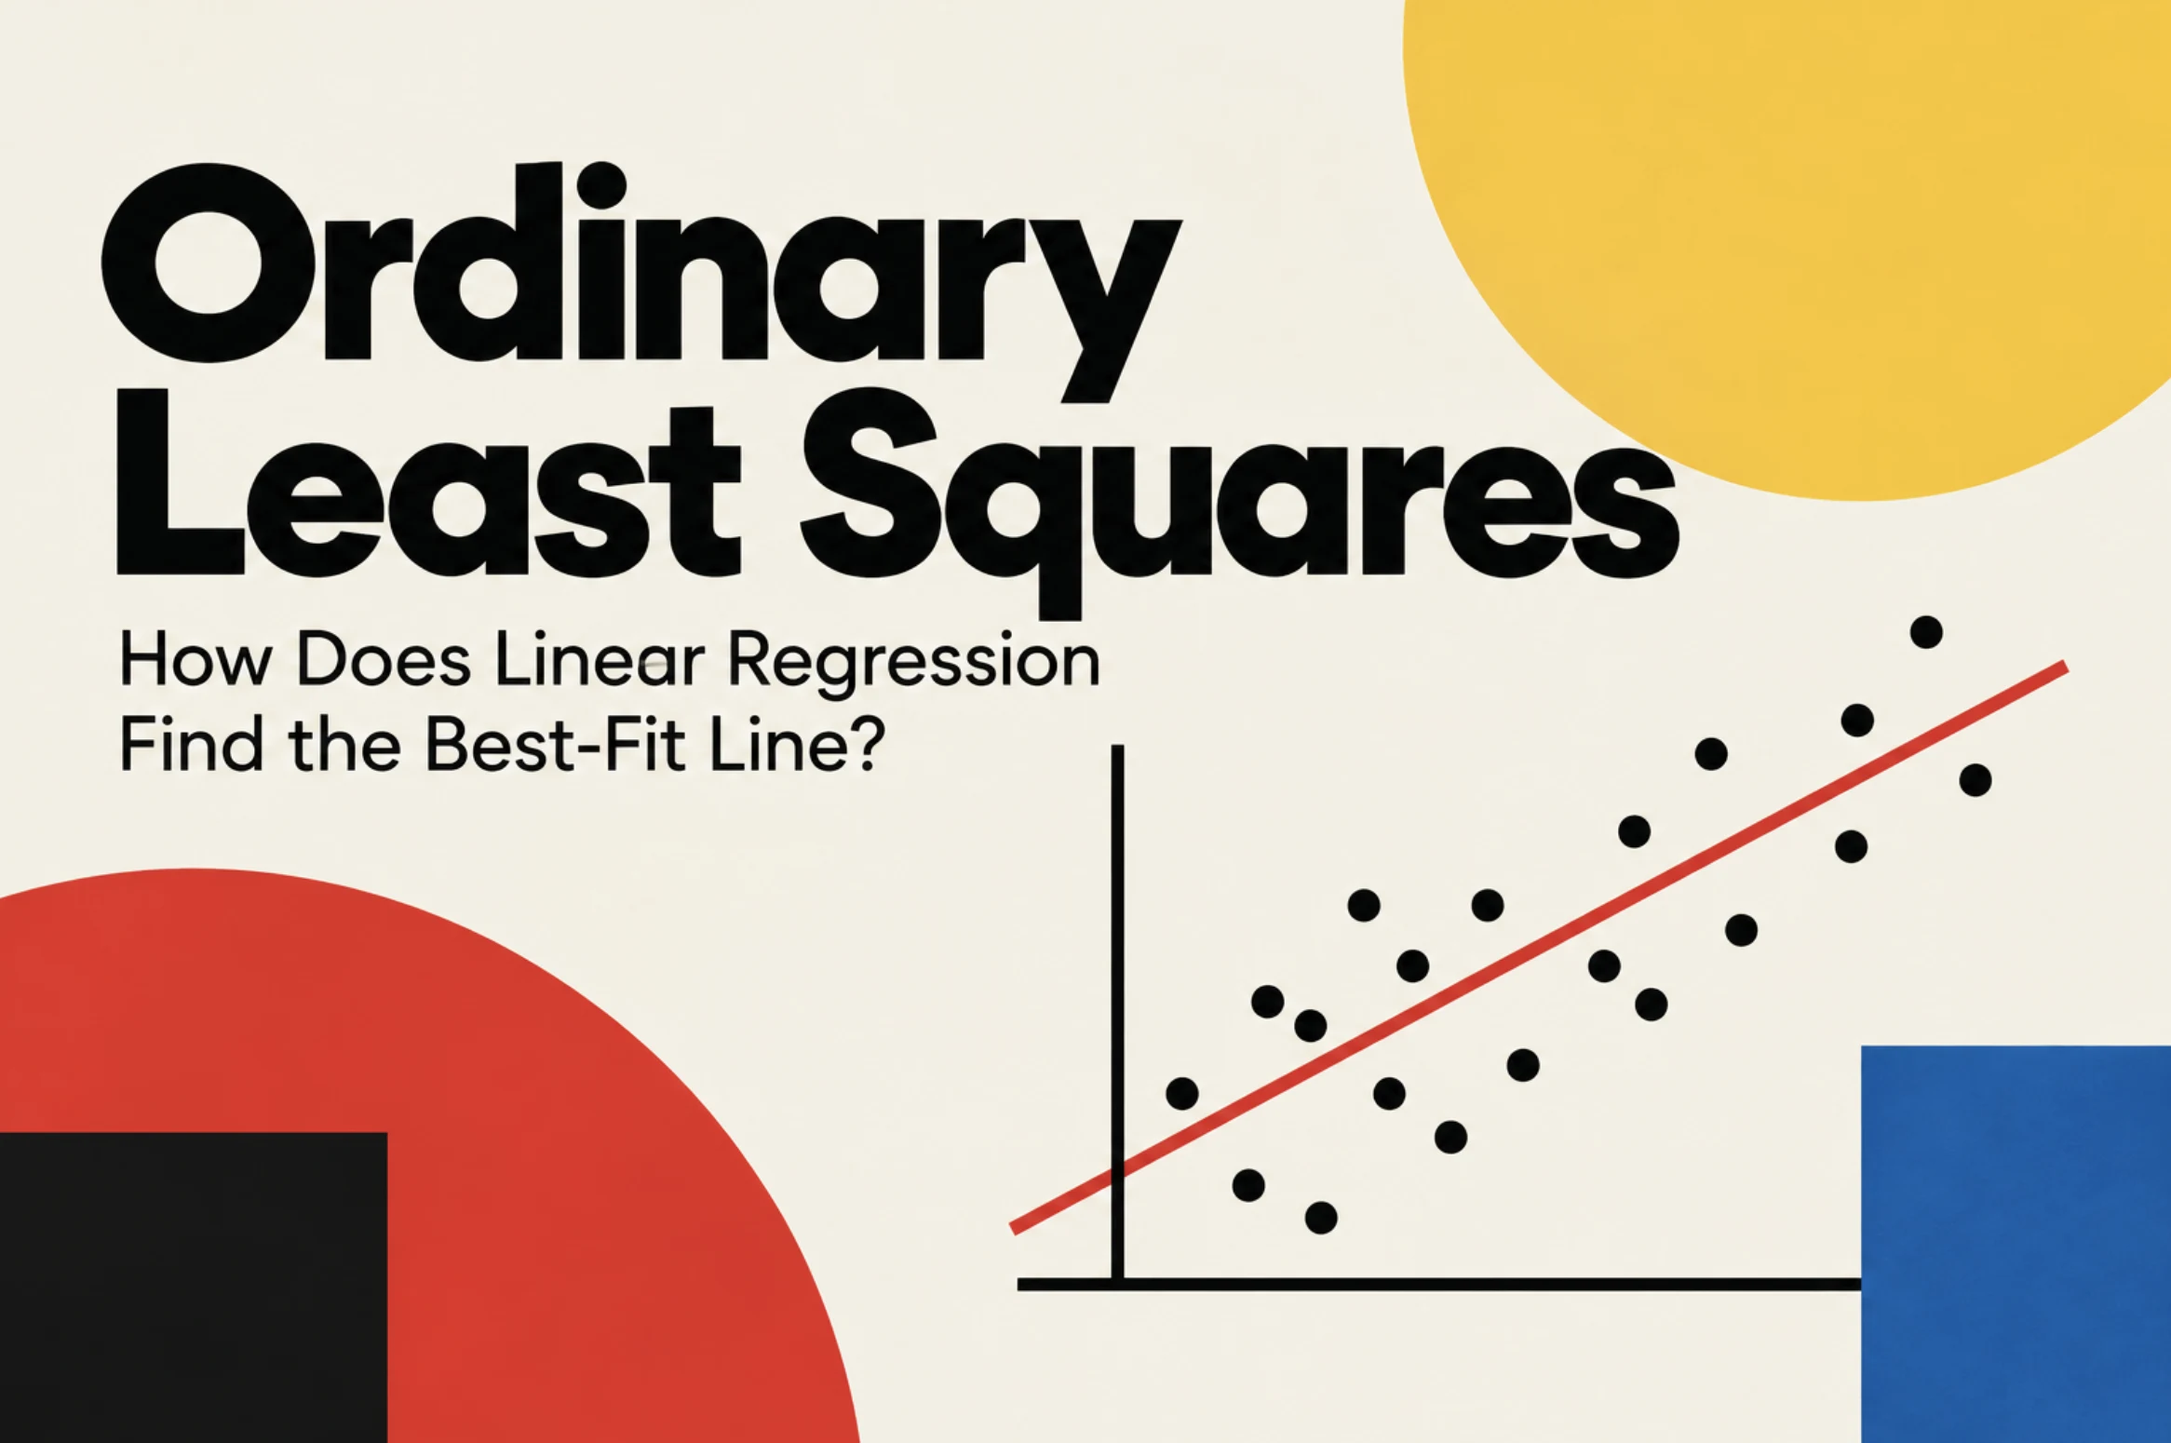
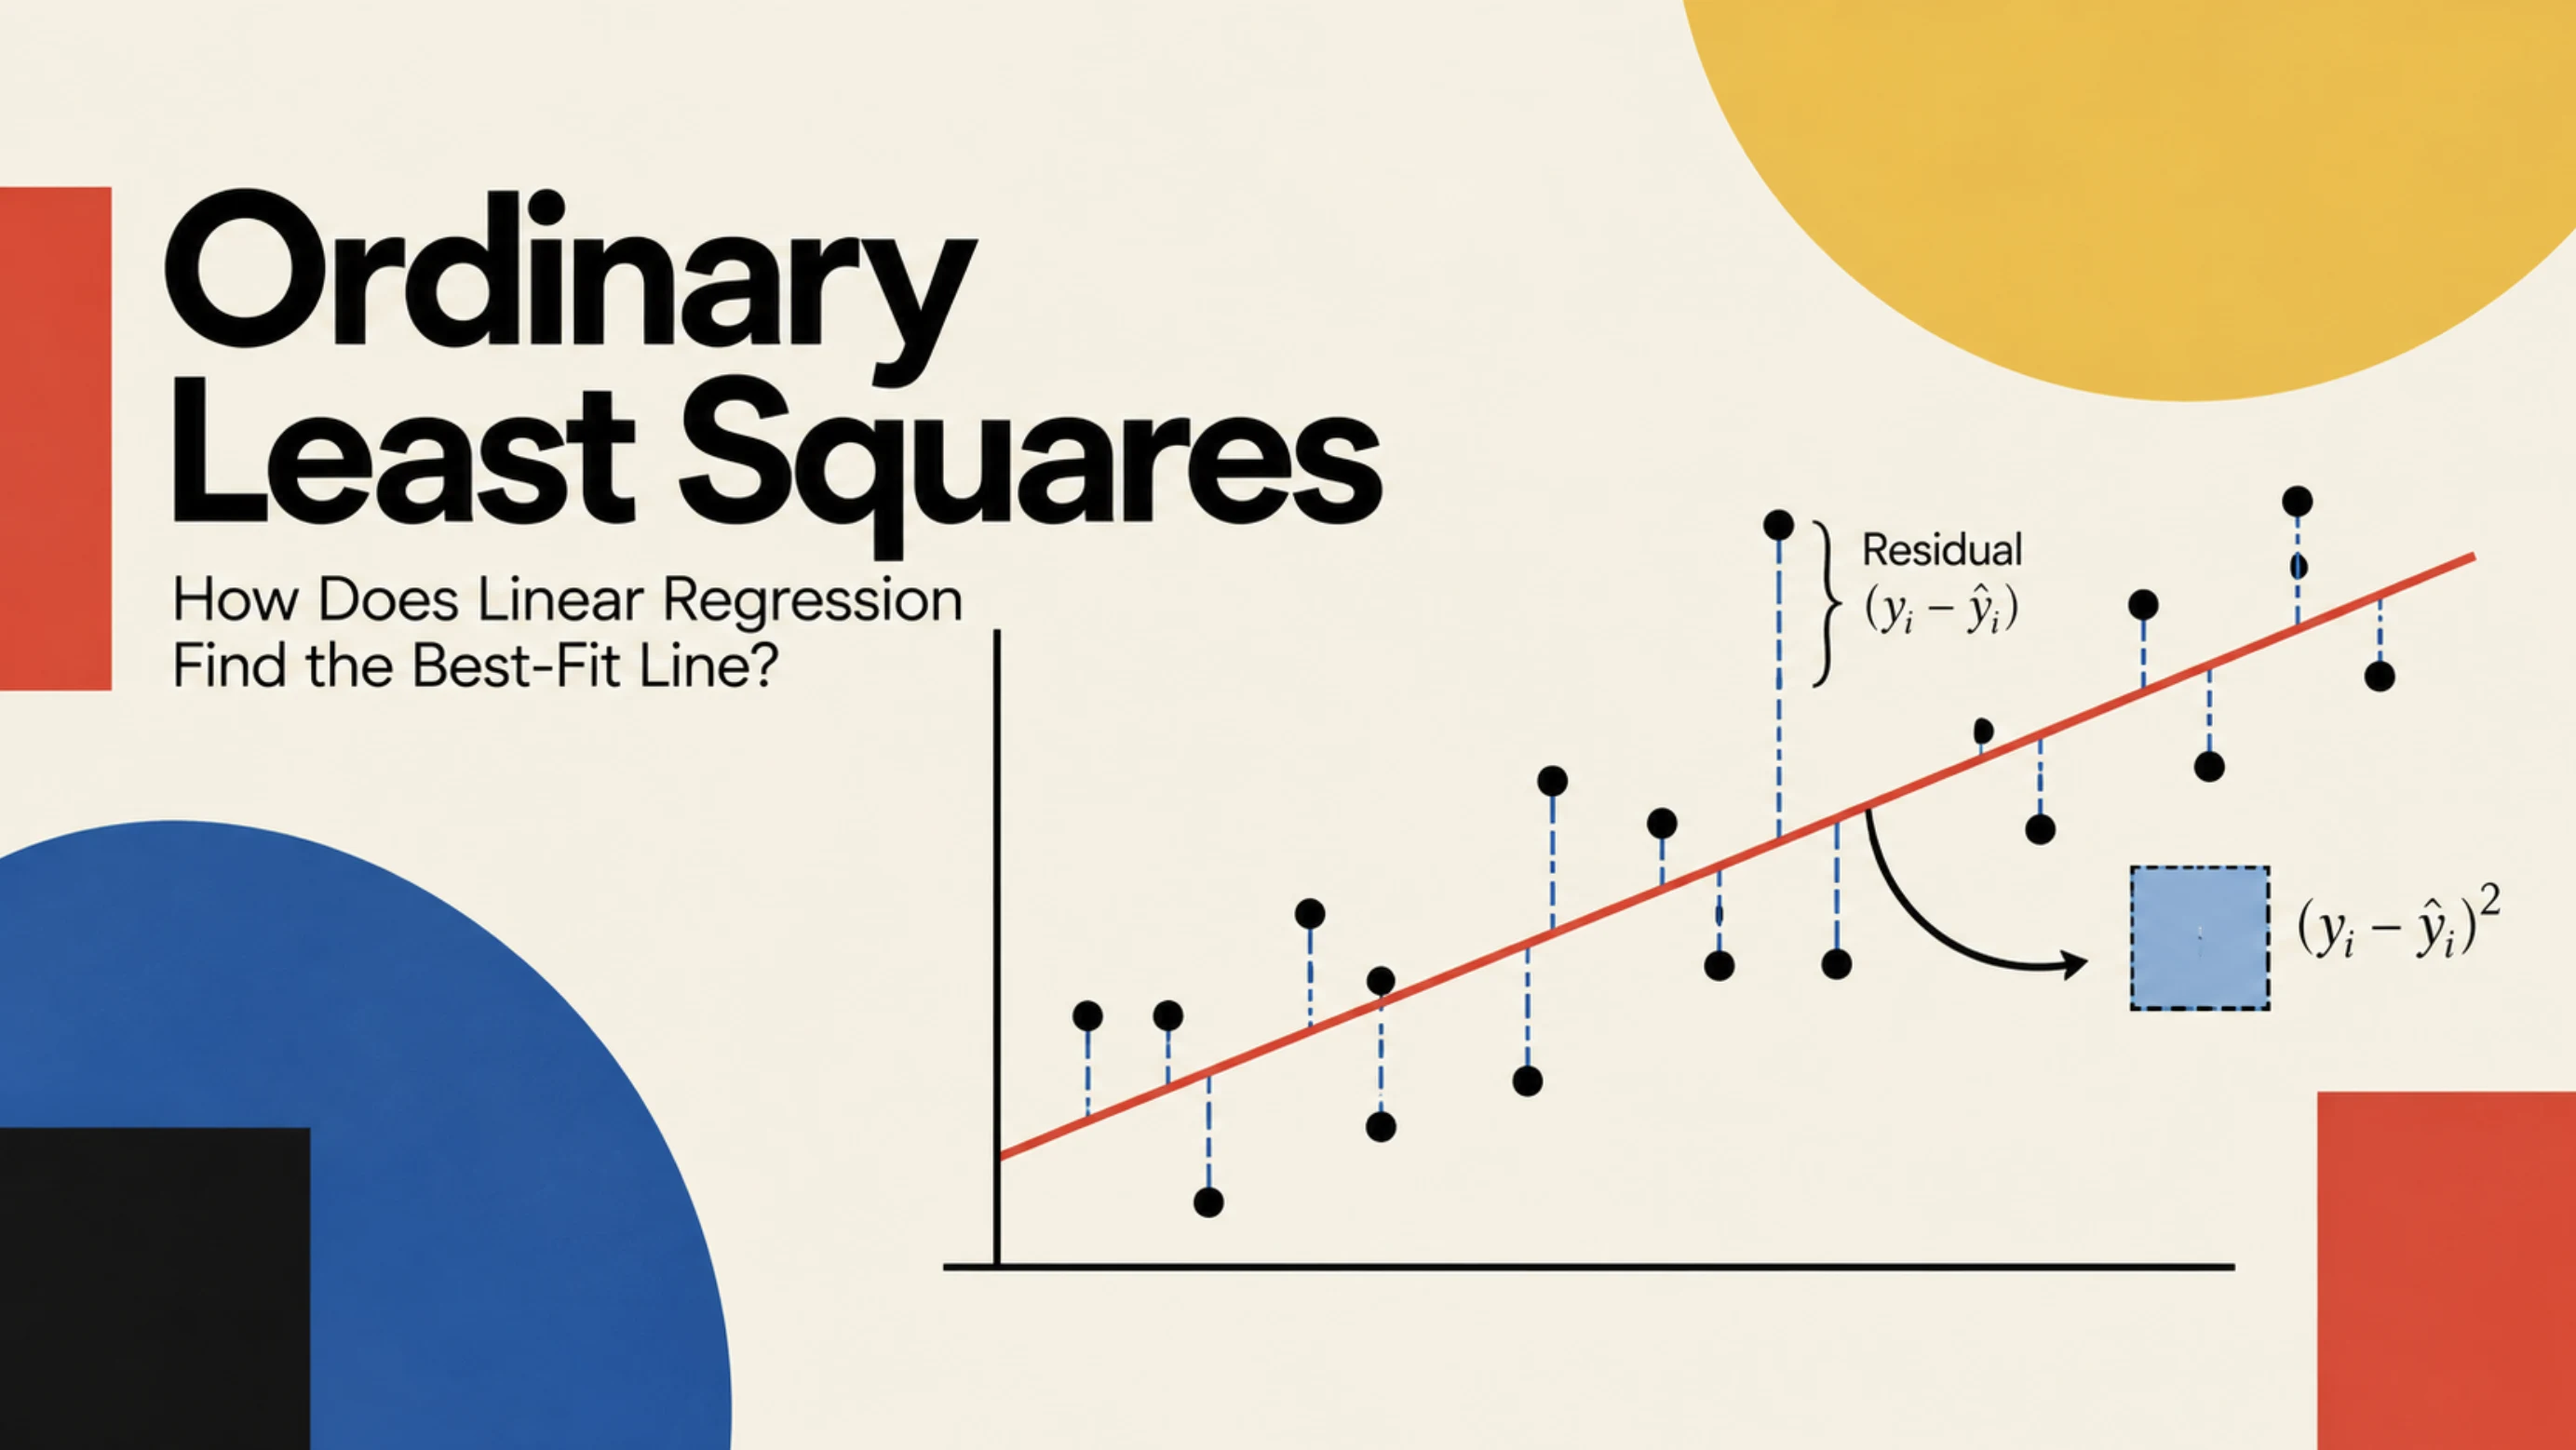
Swap OLS cover image (contain-fit on cream, like the SLR card); bump style cache-buster on Statistics page
Claude-Session: https://claude.ai/code/session_012kKxzwSvBJXty9p77hbE5W

diff --git a/statistics.html b/statistics.html
@@ -8,7 +8,7 @@
   <link rel="preconnect" href="https://fonts.googleapis.com">
   <link rel="preconnect" href="https://fonts.gstatic.com" crossorigin>
   <link href="https://fonts.googleapis.com/css2?family=Inter:wght@400;500;600;700&display=swap" rel="stylesheet">
-  <link rel="stylesheet" href="style.css?v=20261016b">
+  <link rel="stylesheet" href="style.css?v=20261016c">
 </head>
 <body>
 
@@ -240,7 +240,7 @@
       </a>
 
       <a class="project-card" href="least-squares.html">
-        <span class="project-card-img"><img src="images/ols-cover.webp" alt="Ordinary Least Squares: bold title next to a scatter plot with a red fitted line, surrounded by yellow, red, blue and black geometric shapes" width="2332" height="1550" loading="lazy"></span>
+        <span class="project-card-img"><img src="images/ols-cover.webp?v=2" alt="Ordinary Least Squares: bold title next to a scatter plot with a red fitted line, dashed residuals and a squared-residual box, surrounded by yellow, red, blue and black geometric shapes" width="2767" height="1558" loading="lazy"></span>
         <span class="project-card-body">
           <span class="project-type">Regression analysis</span>
           <span class="project-title">OLS: Finding the Best-Fit Line</span>

diff --git a/style.css b/style.css
@@ -1636,8 +1636,10 @@ main > article.post { max-width: 760px; margin: 0 auto; padding: 64px 24px 96px;
 .knowledge-page a[href="datenviz-eda.html"] .project-card-img img { object-position: left center; }
 .knowledge-page a[href="ab-testing.html"] .project-card-img { background: #f4f2ee; }
 .knowledge-page a[href="ab-testing.html"] .project-card-img img { object-fit: contain; }
-.knowledge-page a[href="simple-linear-regression.html"] .project-card-img { background: #f6f3ea; }
-.knowledge-page a[href="simple-linear-regression.html"] .project-card-img img { object-fit: contain; }
+.knowledge-page a[href="simple-linear-regression.html"] .project-card-img,
+.knowledge-page a[href="least-squares.html"] .project-card-img { background: #f6f3ea; }
+.knowledge-page a[href="simple-linear-regression.html"] .project-card-img img,
+.knowledge-page a[href="least-squares.html"] .project-card-img img { object-fit: contain; }
 
 /* Highlighted callout (knowledge articles): the one passage to remember */
 .post-callout { position: relative; margin: 32px 0; padding: 26px 30px 28px; background: var(--surface-alt); border-left: 4px solid var(--accent); border-radius: 0 12px 12px 0; }
